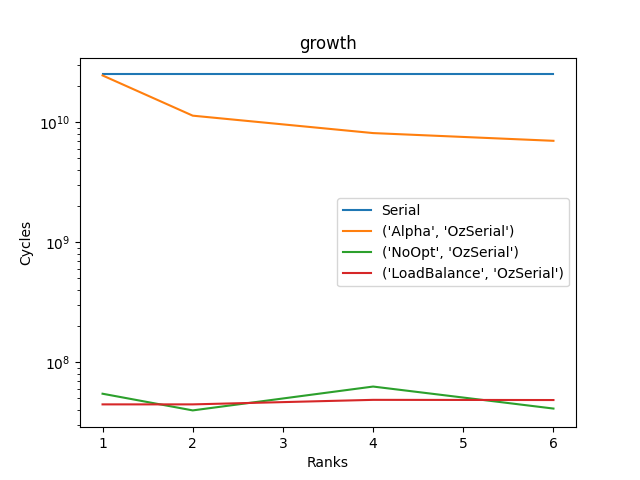
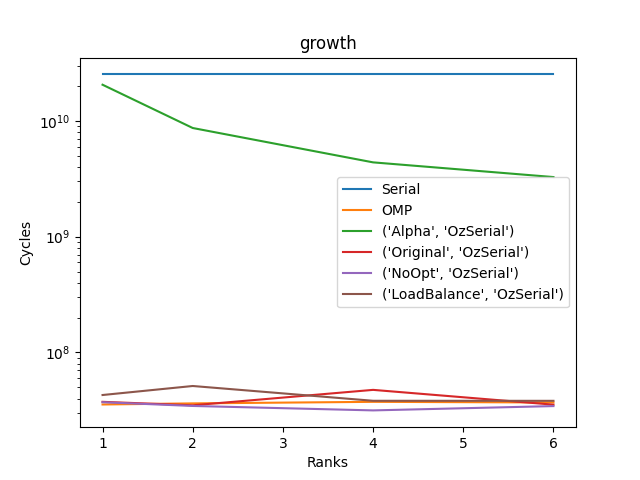
Shared memory via openMP

diff --git a/src/LibOMPVerifier/verifyOpenMP.cpp b/src/LibOMPVerifier/verifyOpenMP.cpp
@@ -1,0 +1,38 @@
+
+#include "LibOMPVerifier.hpp"
+
+
+bool OMPVerifier::OMPVerify(const Proof& p){
+    auto [layerMap, depthMap] = ParallelVerifier::getLayerMapSerial(p);
+    
+    std::vector<std::vector<VertId>> layers;
+    for(const std::unordered_set<VertId>& layer : layerMap){
+        layers.push_back(std::vector<VertId>(layer.begin(), layer.end()));
+    }
+
+    Assumptions assumptions;
+    for(const std::vector<VertId>& layer : layers){
+        std::vector<uint8_t> results(layer.size(), 1);
+        std::vector<std::unordered_set<VertId>> resultAssumptions(layer.size());
+        //Need private per thread copy of assumptions since we can't insert in parallel 
+        #pragma omp parallel for private(assumptions)
+        for(size_t i = 0; i < layer.size(); i++){
+            VertId node = layer[i];
+            results[i] = SharedVerifier::verifyVertex(p, node, assumptions);
+            resultAssumptions[i] = assumptions[node];
+        }
+
+        //update assumptions and check if we've failed in serial
+        bool failed = false; 
+        for(size_t i = 0; i < layer.size(); i++){
+            VertId node = layer[i];
+            assumptions[node] = resultAssumptions[i];
+            failed |= results[i];
+        }
+
+        if(failed){
+            return false;
+        }
+    }
+    return true;
+}  

diff --git a/benchmarks/quickbench.py b/benchmarks/quickbench.py
@@ -1,13 +1,18 @@
 
+import os
 import subprocess
 import matplotlib
 import matplotlib.pyplot as plt
 
-proof = "../proofs/hyperslate/benchmarks/Tree12.slt"
-ranks = [1, 2, 4, 6]
+#Quick bench Paramaters 
 
+#Proof to quickbench
+proof = "../proofs/hyperslate/benchmarks/Tree12.slt"
+ranks = [1, 2, 4, 6] #Num Ranks to test
+#ParallelVerifier Args to test with
 args = [
     ("Alpha", "OzSerial"),
+    ("Original", "OzSerial"),
     ("NoOpt", "OzSerial"),
     ("LoadBalance", "OzSerial")
 ]
@@ -21,7 +26,18 @@ serialCycles = extractCycles(serialRawOut)
 print("Serial Cycles", serialCycles)
 plt.plot(ranks, [serialCycles] * len(ranks), label="Serial")
 
-#Parallel Results
+#OMP Parallel Results
+cycles = []
+my_env = os.environ.copy()
+for rank in ranks:
+    my_env["OMP_NUM_THREADS"] = str(rank) #Set OpneMP threads
+    rawOutput = subprocess.check_output(['../build/bin/OMPVerifier', proof], env=my_env)
+    cycle = extractCycles(rawOutput)
+    cycles.append(cycle)
+    print("OMP Rank", rank, "Cycles", cycle)
+plt.plot(ranks, cycles, label="OMP")
+
+#MPI Parallel Results
 for arg in args:
     cycles = []
     for rank in ranks:

diff --git a/sandbox/omptest.cpp b/sandbox/omptest.cpp
@@ -1,0 +1,19 @@
+
+//For debugging interaction between mpi and openmp using 
+//OMP_NUM_THREADS=N ./a.out
+//mpirun -N M ./a.out
+//OMP_NUM_THREADS=N mpirun -N M ./a.out
+
+#include <stdio.h>
+#include <sched.h>
+#include <omp.h>
+
+int main() {
+    #pragma omp parallel
+    {
+        int thread_num = omp_get_thread_num();
+        int cpu_num = sched_getcpu();
+        printf("Thread %3d is running on CPU %3d\n", thread_num, cpu_num);
+    }
+    return 0;
+}

diff --git a/src/OMPVerify.cpp b/src/OMPVerify.cpp
@@ -1,0 +1,15 @@
+
+
+#include "SharedVerifier/SharedVerifier.hpp"
+#include "LibOMPVerifier/LibOMPVerifier.hpp"
+
+int main(int argc, char** argv) {
+    const char* proofFilePath = SharedVerifier::init(argc, argv);
+    Proof proof(proofFilePath);
+    
+    SharedVerifier::startClock();
+    bool result = OMPVerifier::OMPVerify(proof);
+    SharedVerifier::endClockPrint();
+
+    return !result;
+}

diff --git a/src/LibOMPVerifier/LibOMPVerifier.hpp b/src/LibOMPVerifier/LibOMPVerifier.hpp
@@ -1,0 +1,9 @@
+
+#pragma once
+
+#include "../LibParallelVerifier/LibParallelVerifier.hpp"
+#include "../Proof/Proof.hpp"
+
+namespace OMPVerifier {
+    bool OMPVerify(const Proof& p);     
+}

diff --git a/src/LibParallelVerifier/MPIUtil.hpp b/src/LibParallelVerifier/MPIUtil.hpp
@@ -1,7 +1,6 @@
 
 #pragma once
 
-
 #include<vector>
 #include"LibParallelVerifier.hpp"
 

diff --git a/src/ParallelVerifier.cpp b/src/ParallelVerifier.cpp
@@ -1,5 +1,6 @@
 
 #include<mpi.h>
+
 #include<unordered_map>
 #include<stdexcept>
 

diff --git a/README.md b/README.md
@@ -15,10 +15,16 @@ Just natural deduction propositional calculus for now.
 
 #### Parallel Verifier
 ```
+    Commands:
     ./ParallelVerifier [proofFilePath] [VerifierAlg] [LayerMapAlg]
+    With MPI:
+    mpirun -N [NumRanks] ./ParallelVerifier [proofFilePath] [VerifierAlg] [LayerMapAlg] 
+
+    Args:
     VerifierAlg and LayerMapAlg are optional but if one is included,
     the other must be as well
     VerifierAlg values
+        Alpha - The Sp2022 version that uses markings and marking matrices. A layer mapper must be passed in, but it will not be used.
         Original - a worse version that passes extra data rather than using an MPI reduce
         NoOpt - non-optimized MPI implementation with no balancing
         LoadBalance - load balancing optimizations implementation
